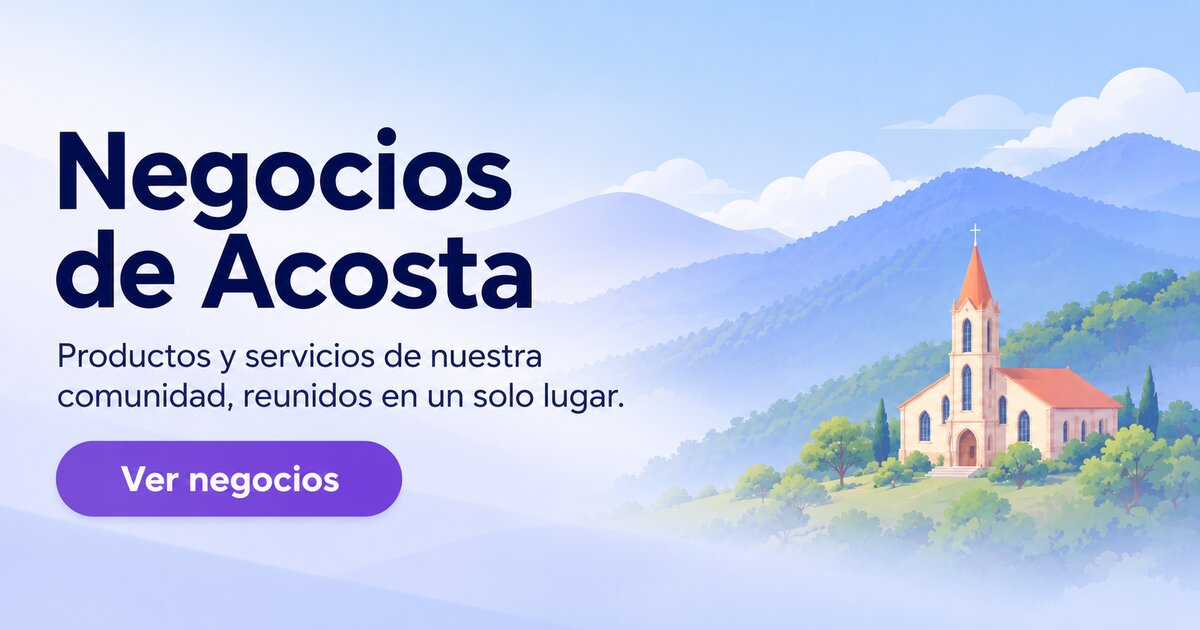
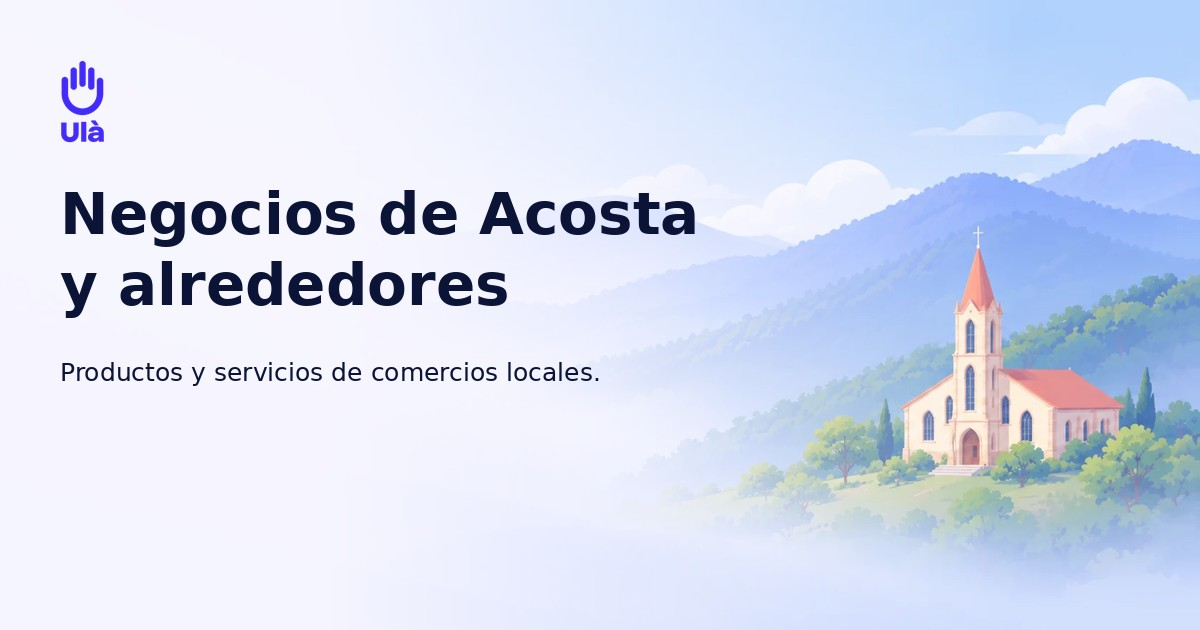
Include Acosta and surrounding areas in Ulà copy

diff --git a/src/views/public/MallPreview.tsx b/src/views/public/MallPreview.tsx
@@ -73,13 +73,13 @@ export default function MallPreview({ compact = false, embedded = false }: MallP
   const toggleBusiness = (key: string) => setSelectedBusinessKey((current) => current === key ? '' : key);
 
   return (
-    <Box as={embedded ? 'div' : 'section'} aria-label={embedded ? 'Negocios de Acosta' : undefined} aria-labelledby={embedded ? undefined : 'mall-preview-title'} position="relative" overflow="hidden" borderRadius={embedded ? '0' : { base: '22px', md: '28px' }} bg={embedded ? 'linear-gradient(0deg, #F6F4FF, #E8E3FF)' : 'linear-gradient(128deg, #111936 0%, #222B64 58%, #3730A3 100%)'} color={embedded ? 'navy.900' : 'white'} p={{ base: '16px', md: compact ? '18px' : '24px' }} pt={embedded ? '0' : undefined} boxShadow={embedded ? 'none' : '0 16px 38px rgba(15, 23, 42, .16)'} border={embedded ? 'none' : '1px solid'} borderColor="whiteAlpha.200">
+    <Box as={embedded ? 'div' : 'section'} aria-label={embedded ? 'Negocios de Acosta y alrededores' : undefined} aria-labelledby={embedded ? undefined : 'mall-preview-title'} position="relative" overflow="hidden" borderRadius={embedded ? '0' : { base: '22px', md: '28px' }} bg={embedded ? 'linear-gradient(0deg, #F6F4FF, #E8E3FF)' : 'linear-gradient(128deg, #111936 0%, #222B64 58%, #3730A3 100%)'} color={embedded ? 'navy.900' : 'white'} p={{ base: '16px', md: compact ? '18px' : '24px' }} pt={embedded ? '0' : undefined} boxShadow={embedded ? 'none' : '0 16px 38px rgba(15, 23, 42, .16)'} border={embedded ? 'none' : '1px solid'} borderColor="whiteAlpha.200">
       <Box display={embedded ? 'none' : 'block'} position="absolute" inset="0" opacity=".18" pointerEvents="none" bgImage="radial-gradient(circle at 25% 25%, #fff 0 1px, transparent 1.5px)" bgSize="54px 54px" />
       {!embedded && <Flex position="relative" align={{ base: 'flex-start', md: 'center' }} justify="space-between" gap="14px" direction={{ base: 'column', md: 'row' }} mb={{ base: '18px', md: '20px' }}>
         <Flex gap="12px" align="center">
           <Flex w={{ base: '42px', md: '48px' }} h={{ base: '42px', md: '48px' }} flex="0 0 auto" borderRadius="16px" align="center" justify="center" bg="whiteAlpha.100" border="1px solid" borderColor="whiteAlpha.300" fontSize={{ base: '23px', md: '27px' }}>🧑🚀</Flex>
           <Stack spacing="2px">
-            <Heading id="mall-preview-title" fontSize={{ base: 'lg', md: compact ? 'xl' : '2xl' }}>Negocios de Acosta</Heading>
+            <Heading id="mall-preview-title" fontSize={{ base: 'lg', md: compact ? 'xl' : '2xl' }}>Negocios de Acosta y alrededores</Heading>
             {!compact && <Text color="whiteAlpha.700" fontSize="sm">Seleccione un negocio y contáctelo directamente.</Text>}
           </Stack>
         </Flex>

diff --git a/public/index.html b/public/index.html
@@ -28,20 +28,20 @@
     <link rel="manifest" href="%PUBLIC_URL%/manifest.json" />
     <meta name="viewport" content="width=device-width, initial-scale=1" />
     <meta name="theme-color" content="#422AFB" />
-    <title>Negocios de Acosta: comercios y servicios | Ulà</title>
-    <meta name="description" content="Conozca los comercios y servicios de Acosta y consulte sus contactos. Un espacio para impulsar el comercio local." />
+    <title>Negocios de Acosta y alrededores | Ulà</title>
+    <meta name="description" content="Conozca los comercios y servicios de Acosta y alrededores y consulte sus contactos. Un espacio para impulsar el comercio local." />
     <meta property="og:type" content="website" />
     <meta property="og:site_name" content="Ulà" />
-    <meta property="og:title" content="Negocios de Acosta: comercios y servicios | Ulà" />
-    <meta property="og:description" content="Conozca los comercios y servicios de Acosta y consulte sus contactos. Un espacio para impulsar el comercio local." />
+    <meta property="og:title" content="Negocios de Acosta y alrededores | Ulà" />
+    <meta property="og:description" content="Conozca los comercios y servicios de Acosta y alrededores y consulte sus contactos. Un espacio para impulsar el comercio local." />
     <meta name="twitter:card" content="summary_large_image" />
-    <meta name="twitter:title" content="Negocios de Acosta: comercios y servicios | Ulà" />
-    <meta name="twitter:description" content="Conozca los comercios y servicios de Acosta y consulte sus contactos. Un espacio para impulsar el comercio local." />
+    <meta name="twitter:title" content="Negocios de Acosta y alrededores | Ulà" />
+    <meta name="twitter:description" content="Conozca los comercios y servicios de Acosta y alrededores y consulte sus contactos. Un espacio para impulsar el comercio local." />
     <!-- Las URLs absolutas se agregan al build mediante scripts/build-seo.cjs. -->
 
   </head>
   <body>
-    <noscript>Active JavaScript para consultar los negocios de Acosta.</noscript>
+    <noscript>Active JavaScript para consultar los negocios de Acosta y alrededores.</noscript>
     <div id="root"></div>
   </body>
 </html>

diff --git a/src/views/public/Portfolio.tsx b/src/views/public/Portfolio.tsx
@@ -19,9 +19,9 @@ const projects = [
     name: 'Ulà',
     type: 'Plataforma de comercio local',
     icon: MdPublic,
-    description: 'Una plataforma para descubrir comercios de Acosta y dar visibilidad a los negocios de la comunidad.',
+    description: 'Una plataforma para descubrir comercios de Acosta y alrededores y dar visibilidad a los negocios de la comunidad.',
     highlights: ['Negocios locales', 'Solicitudes de promoción', 'Diseño móvil'],
-    result: 'Un punto de encuentro para comercios y clientes de Acosta.',
+    result: 'Un punto de encuentro para comercios y clientes de Acosta y alrededores.',
     action: 'Conocer Ulà',
     to: '/',
   },
@@ -29,7 +29,7 @@ const projects = [
     name: 'Centro Comercial Virtual',
     type: 'Comercio local',
     icon: MdMap,
-    description: 'Una vitrina digital que reúne negocios de Acosta por categoría y facilita descubrir sus servicios, promociones y medios de contacto.',
+    description: 'Una vitrina digital que reúne negocios de Acosta y alrededores por categoría y facilita descubrir sus servicios, promociones y medios de contacto.',
     highlights: ['Directorio visual', 'Comercios por categoría', 'Contacto directo'],
     result: 'Mayor visibilidad para emprendimientos y una búsqueda más fácil para la comunidad.',
     action: 'Explorar comercios',

diff --git a/src/views/public/Home.tsx b/src/views/public/Home.tsx
@@ -130,7 +130,7 @@ export default function Home() {
             <Image src={`${process.env.PUBLIC_URL}/ula/logo.png`} alt="" h={{ base: '58px', md: '78px' }} w="auto" alignSelf="flex-start" objectFit="contain" />
             <Heading as="h1" id="community-title" fontSize={{ base: '36px', sm: '44px', lg: '58px' }} fontWeight="700"
               lineHeight="1.02" letterSpacing="-.045em" sx={{ textWrap: 'balance' }}>Una mano que siempre da.</Heading>
-            <Text fontSize={{ base: 'md', md: 'lg' }} lineHeight="1.55" maxW="330px">Encuentre productos y servicios de los comercios de Acosta.</Text>
+            <Text fontSize={{ base: 'md', md: 'lg' }} lineHeight="1.55" maxW="330px">Encuentre productos y servicios de los comercios de Acosta y alrededores.</Text>
             <Button as={RLink} to="/mall"
               onClick={() => { void AnalyticsService.track({ type: 'browse_click', source: 'home' }); }}
               alignSelf="flex-start" rightIcon={<MdArrowForward />} size="lg" minH="50px" mt="2px"

diff --git a/src/views/public/PublicFooter.tsx b/src/views/public/PublicFooter.tsx
@@ -16,7 +16,7 @@ export default function PublicFooter() {
         <Flex align="center" direction={{ base: 'column', md: 'row' }} gap={{ base: '10px', md: '16px' }} minW="0">
           <Image src={`${process.env.PUBLIC_URL}/ula/logo-blanco.png`} alt="Ulà" h="64px" w="auto" />
           <Box minW="0" textAlign={{ base: 'center', md: 'left' }}>
-            <Text fontSize={{ base: 'md', md: 'lg' }} fontWeight="700" lineHeight="1.3">Negocios de Acosta</Text>
+            <Text fontSize={{ base: 'md', md: 'lg' }} fontWeight="700" lineHeight="1.3">Negocios de Acosta y alrededores</Text>
             <Text color="whiteAlpha.900" mt="4px" fontSize="xs" lineHeight="1.5">Un espacio para el comercio local</Text>
           </Box>
         </Flex>

diff --git a/src/views/public/BusinessPromotion.tsx b/src/views/public/BusinessPromotion.tsx
@@ -9,7 +9,7 @@ export default function BusinessPromotion() {
         justify="space-between" gap={3} maxW="940px" mx="auto">
         <Box minW="0">
           <Heading as="h2" fontSize="md" color="navy.900" lineHeight="1.4">Su negocio también puede estar aquí.</Heading>
-          <Text fontSize="sm" color="#475569" mt={1}>Envíe una solicitud para aparecer en el directorio de comercios de Acosta.</Text>
+          <Text fontSize="sm" color="#475569" mt={1}>Envíe una solicitud para aparecer en el directorio de comercios de Acosta y alrededores.</Text>
         </Box>
         <Button as={Link} to="/promocionar-negocio" colorScheme="brand">Quiero promocionar mi negocio</Button>
       </Flex>

diff --git a/src/views/public/PublicHeader.tsx b/src/views/public/PublicHeader.tsx
@@ -37,7 +37,7 @@ export default function PublicHeader({ onBack, backLabel }: { onBack?: () => voi
               <Image src={`${process.env.PUBLIC_URL}/ula/isotipo.png`} alt="" h="24px" w="auto" objectFit="contain" />
             </Flex>
             <Text fontWeight="700">Ulà</Text>
-            <Box display={{ base: 'none', sm: 'block' }}><Text color={muted} fontSize="xs">Negocios de Acosta</Text></Box>
+            <Box display={{ base: 'none', sm: 'block' }}><Text color={muted} fontSize="xs">Negocios de Acosta y alrededores</Text></Box>
           </Flex>
         )}
       </Flex>
